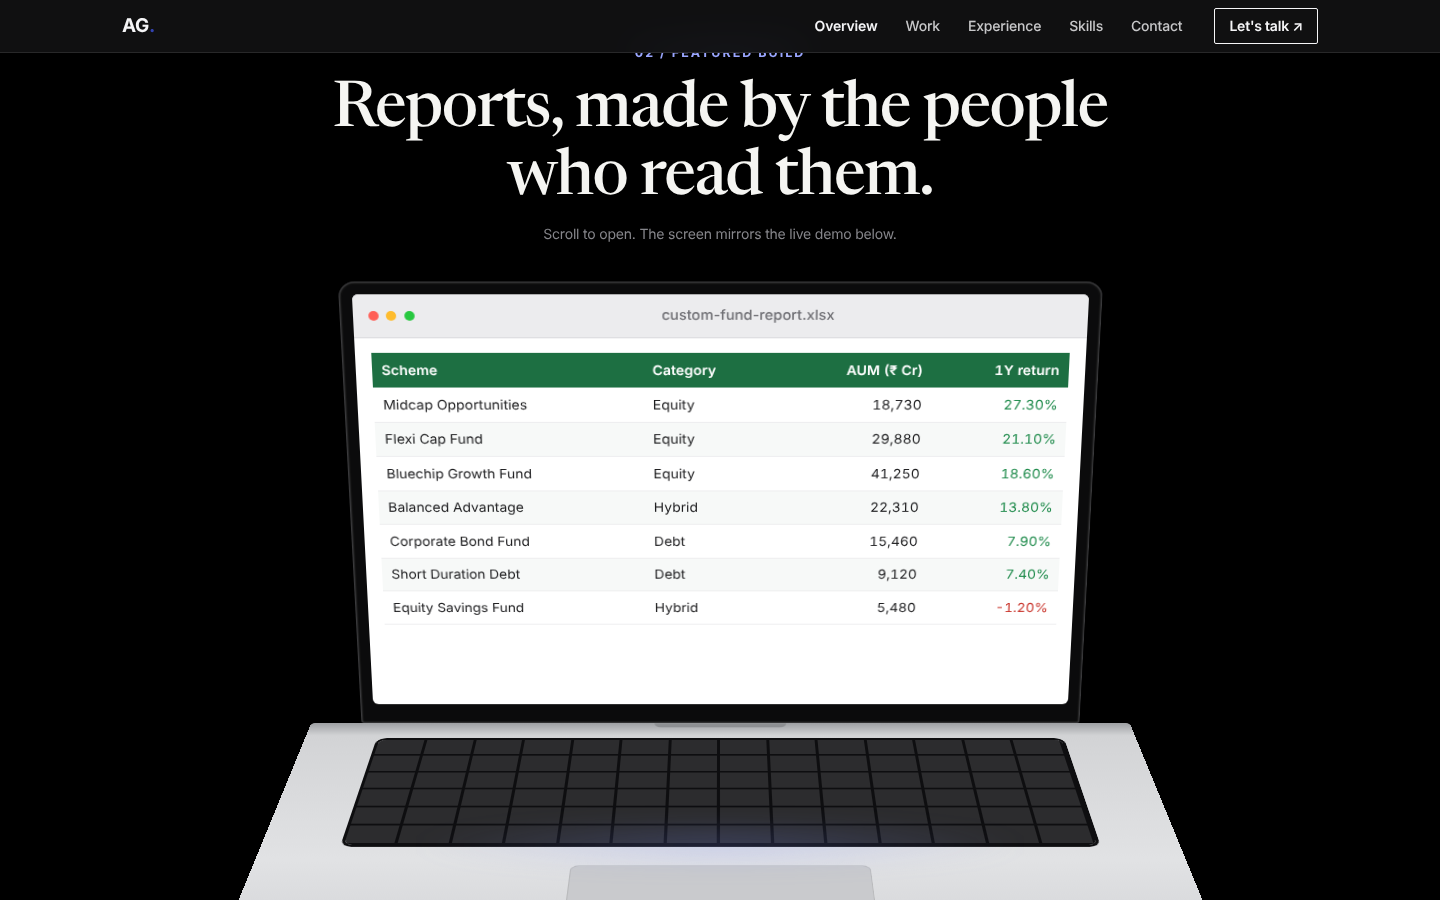
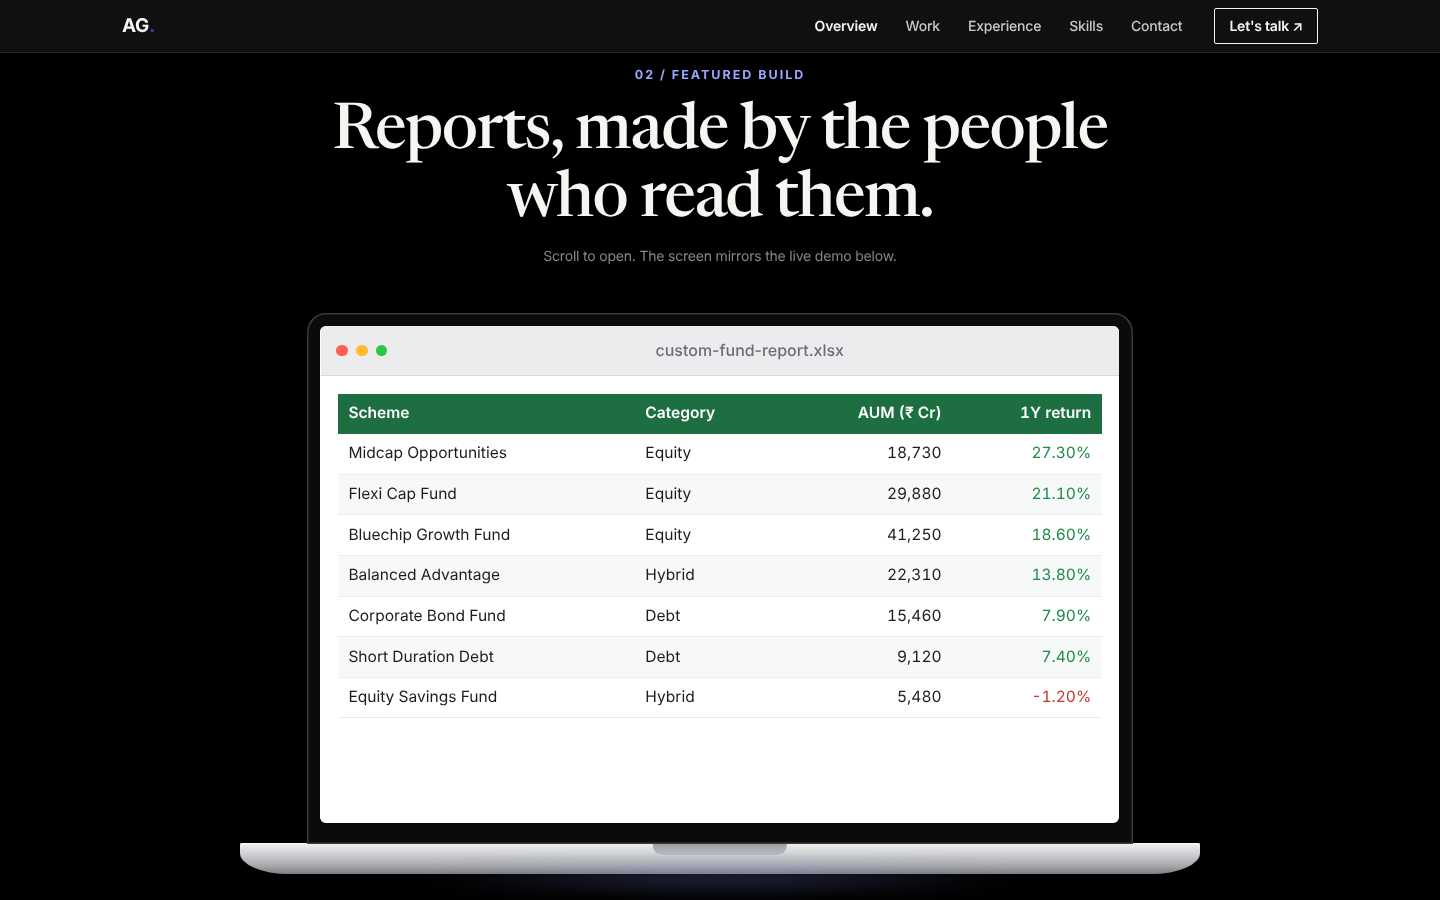
Rebuild the 3D laptop so it fits and looks right on every screen
The old laptop drew its base as a large perspective plane, which ran past
both edges on phones and off the bottom on laptops. It is now a front-view
laptop: the lid swings up from closed onto a thin base with a notch. The
whole laptop is sized from the viewport width and height so it always fits.

Claude-Session: https://claude.ai/code/session_01XCAyVvRRDEhHHoNuiT3Znq

Changed region(s): [[0.1562, 0.0622, 0.8438, 1.0], [0.4375, 0.5911, 0.5, 0.6844], [0.4375, 0.7156, 0.4688, 0.7467]]

diff --git a/styles.css b/styles.css
@@ -184,21 +184,22 @@ h1,h2,h3,h4,p{margin:0}
   background:linear-gradient(180deg,#fff 30%,#a1a1a6);-webkit-background-clip:text;background-clip:text;color:transparent}
 .show-cap{font-size:14px;color:#86868b;margin-top:10px}
 
-.stage{--w:min(82vw,860px,calc((100svh - 330px) * 1.3));position:relative;width:var(--w);perspective:1800px;perspective-origin:50% -20%;
-  margin-bottom:calc(var(--w) * .2)}
-.mac{position:relative;width:100%;transform-style:preserve-3d;
-  transform:rotateX(calc(-30deg + var(--p) * 16deg)) translateY(calc((1 - var(--p)) * 6%)) scale(calc(.86 + var(--p) * .14))}
+/* Front-view laptop: the lid swings up from closed on a thin base.
+   --w is the base width; it always fits the viewport width and height. */
+.stage{--w:min(92vw,960px,calc((100svh - 300px) * 1.62));position:relative;width:var(--w);margin-top:calc(var(--w) * .02)}
+.mac{position:relative;width:100%}
+.hinge{position:relative;z-index:1;width:86%;margin:0 auto;perspective:calc(var(--w) * 3);perspective-origin:50% -25%}
 .lid{position:relative;width:100%;aspect-ratio:16/10.3;transform-origin:50% 100%;transform-style:preserve-3d;
-  transform:rotateX(calc(-90deg + var(--p) * 90deg))}
-.lid-front,.lid-back{position:absolute;inset:0;border-radius:calc(var(--w) * .022) calc(var(--w) * .022) 4px 4px;
+  transform:rotateX(calc(-82deg + var(--p) * 82deg))}
+.lid-front,.lid-back{position:absolute;inset:0;border-radius:calc(var(--w) * .02) calc(var(--w) * .02) 0 0;
   -webkit-backface-visibility:hidden;backface-visibility:hidden}
-.lid-front{background:#0b0b0c;padding:calc(var(--w) * .018) calc(var(--w) * .018) calc(var(--w) * .03);
-  box-shadow:inset 0 0 0 1.5px #3a3a3c,inset 0 0 0 3px #111}
-.lid-back{transform:rotateY(180deg);background:linear-gradient(160deg,#d9dadc,#b8babd 55%,#a3a5a8);display:grid;place-items:center;
-  box-shadow:inset 0 0 0 1px rgba(255,255,255,.5)}
-.mark{width:calc(var(--w) * .07);height:calc(var(--w) * .07);border-radius:50%;background:linear-gradient(145deg,rgba(255,255,255,.7),rgba(0,0,0,.08));box-shadow:inset 0 0 0 1px rgba(0,0,0,.06)}
-.screen{position:relative;height:100%;border-radius:calc(var(--w) * .008);overflow:hidden;background:#fff;color:#1d1d1f;
-  container-type:inline-size;filter:brightness(calc(.15 + var(--p) * .85))}
+.lid-front{background:#0b0b0c;padding:calc(var(--w) * .014) calc(var(--w) * .014) calc(var(--w) * .022);
+  box-shadow:inset 0 0 0 1.5px #3a3a3c,inset 0 0 0 3px #0b0b0c}
+.lid-back{transform:rotateY(180deg);background:linear-gradient(180deg,#e2e3e5,#bfc1c4 70%,#a9abae);display:grid;place-items:center;
+  box-shadow:inset 0 0 0 1px rgba(255,255,255,.55)}
+.mark{width:calc(var(--w) * .06);height:calc(var(--w) * .06);border-radius:50%;background:linear-gradient(145deg,rgba(255,255,255,.75),rgba(0,0,0,.07));box-shadow:inset 0 0 0 1px rgba(0,0,0,.06)}
+.screen{position:relative;height:100%;border-radius:calc(var(--w) * .006);overflow:hidden;background:#fff;color:#1d1d1f;
+  container-type:inline-size;filter:brightness(calc(.2 + var(--p) * .8))}
 .app-bar{display:flex;align-items:center;gap:1.1cqw;height:6.2cqw;padding:0 2cqw;background:#ececee;border-bottom:1px solid #d9d9dc;
   font-size:2cqw;color:#6e6e73;letter-spacing:0}
 .app-bar i{width:1.4cqw;height:1.4cqw;border-radius:50%;background:#ff5f57}
@@ -212,21 +213,17 @@ h1,h2,h3,h4,p{margin:0}
 .mini .num{text-align:right}
 .mini .up{color:#1d8a4a}.mini .dn{color:#c9342b}
 
-.deck{position:absolute;left:-7%;width:114%;top:100%;height:calc(var(--w) * .52);transform-origin:50% 0;transform:rotateX(90deg);
-  transform-style:preserve-3d;border-radius:4px 4px calc(var(--w) * .03) calc(var(--w) * .03);
-  background:linear-gradient(180deg,#9fa1a4,#d2d3d5 6%,#e1e2e4 60%,#cfd0d3)}
-.deck::before{content:"";position:absolute;left:9%;right:9%;top:8%;height:46%;border-radius:calc(var(--w) * .01);
-  background:repeating-linear-gradient(90deg,transparent 0 calc(100%/14 - 3px),#0e0e10 calc(100%/14 - 3px) calc(100%/14)),
-  repeating-linear-gradient(180deg,#2c2c2e 0 calc(100%/6 - 3px),#0e0e10 calc(100%/6 - 3px) calc(100%/6));box-shadow:0 0 0 3px #0e0e10}
-.deck::after{content:"";position:absolute;left:34%;right:34%;top:62%;height:30%;border-radius:calc(var(--w) * .01);background:#c9cacd;
-  box-shadow:inset 0 0 0 1px rgba(0,0,0,.08)}
-.notch{position:absolute;left:50%;top:0;width:16%;height:2.2%;transform:translateX(-50%);border-radius:0 0 8px 8px;background:#8d8f92}
-.floor{position:absolute;left:-10%;right:-10%;bottom:calc(var(--w) * -.18);height:calc(var(--w) * .1);
-  background:radial-gradient(50% 50% at 50% 50%,rgba(120,140,255,.22),transparent 70%);filter:blur(10px);opacity:var(--p);pointer-events:none}
+.base{position:relative;height:calc(var(--w) * .032);margin-top:-1px;
+  border-radius:2px 2px calc(var(--w) * .05) calc(var(--w) * .05) / 2px 2px calc(var(--w) * .022) calc(var(--w) * .022);
+  background:linear-gradient(180deg,#f0f1f2 0,#d4d6d9 30%,#a4a6aa 75%,#7c7e82 100%);
+  box-shadow:inset 0 1px 0 rgba(255,255,255,.8)}
+.notch{position:absolute;left:50%;top:0;width:14%;height:38%;transform:translateX(-50%);border-radius:0 0 calc(var(--w) * .01) calc(var(--w) * .01);
+  background:linear-gradient(180deg,#9c9ea2,#b9bbbf)}
+.floor{position:absolute;left:4%;right:4%;top:100%;height:calc(var(--w) * .05);margin-top:calc(var(--w) * -.01);
+  background:radial-gradient(50% 50% at 50% 30%,rgba(140,150,255,.28),transparent 70%);filter:blur(8px);opacity:calc(.3 + var(--p) * .7);pointer-events:none}
 
 @media (max-width:734px){
-  .show{height:210vh}
-  .stage{--w:min(88vw,calc((100svh - 260px) * 1.38))}
+  .show{height:200vh}
   .br-wide{display:none}
 }
 

diff --git a/index.html b/index.html
@@ -22,7 +22,7 @@
 <link rel="preconnect" href="https://fonts.googleapis.com">
 <link rel="preconnect" href="https://fonts.gstatic.com" crossorigin>
 <link href="https://fonts.googleapis.com/css2?family=Newsreader:ital,opsz,wght@0,6..72,400;0,6..72,500;1,6..72,400&display=swap" rel="stylesheet">
-<link rel="stylesheet" href="styles.css?v=20261113">
+<link rel="stylesheet" href="styles.css?v=20261113b">
 <script>document.documentElement.classList.add('js')</script>
 
 <script type="application/ld+json">
@@ -101,18 +101,20 @@
     </div>
     <div class="stage" id="stage">
       <div class="mac" id="mac">
-        <div class="lid" id="lid">
-          <div class="lid-front">
-            <div class="screen" id="screen">
-              <div class="app-bar"><i></i><i></i><i></i><span>custom-fund-report.xlsx</span></div>
-              <div class="app-body">
-                <table class="mini" id="miniSheet" aria-hidden="true"></table>
+        <div class="hinge">
+          <div class="lid" id="lid">
+            <div class="lid-front">
+              <div class="screen" id="screen">
+                <div class="app-bar"><i></i><i></i><i></i><span>custom-fund-report.xlsx</span></div>
+                <div class="app-body">
+                  <table class="mini" id="miniSheet" aria-hidden="true"></table>
+                </div>
               </div>
             </div>
+            <div class="lid-back" aria-hidden="true"><span class="mark"></span></div>
           </div>
-          <div class="lid-back" aria-hidden="true"><span class="mark"></span></div>
         </div>
-        <div class="deck" aria-hidden="true"><span class="notch"></span></div>
+        <div class="base" aria-hidden="true"><span class="notch"></span></div>
       </div>
       <div class="floor" aria-hidden="true"></div>
     </div>
@@ -422,6 +424,6 @@
   </div>
 </footer>
 
-<script src="main.js?v=20261113" defer></script>
+<script src="main.js?v=20261113b" defer></script>
 </body>
 </html>

diff --git a/README.md b/README.md
@@ -14,7 +14,7 @@ python3 -m http.server 8000
 ## What's on the page
 
 - A light, Apple-style layout with automatic dark mode, which follows the visitor's system setting.
-- A **scroll-driven 3D laptop** built in pure CSS: the lid opens as you scroll, and its screen mirrors the live demo.
+- A **scroll-driven 3D laptop** built in pure CSS: a front-view laptop whose lid swings open as you scroll, and its screen mirrors the live demo.
 - A working **custom report builder** demo (made-up fund data). Pick columns, filter and sort, then export a CSV that opens in Excel.
 - Case-study tiles with small live visuals: batch-job race chart, portfolio overlap, database switcher, microservices map, upload and CI/CD pipeline.
 - About, experience, education and a "tech specs" skills list.
